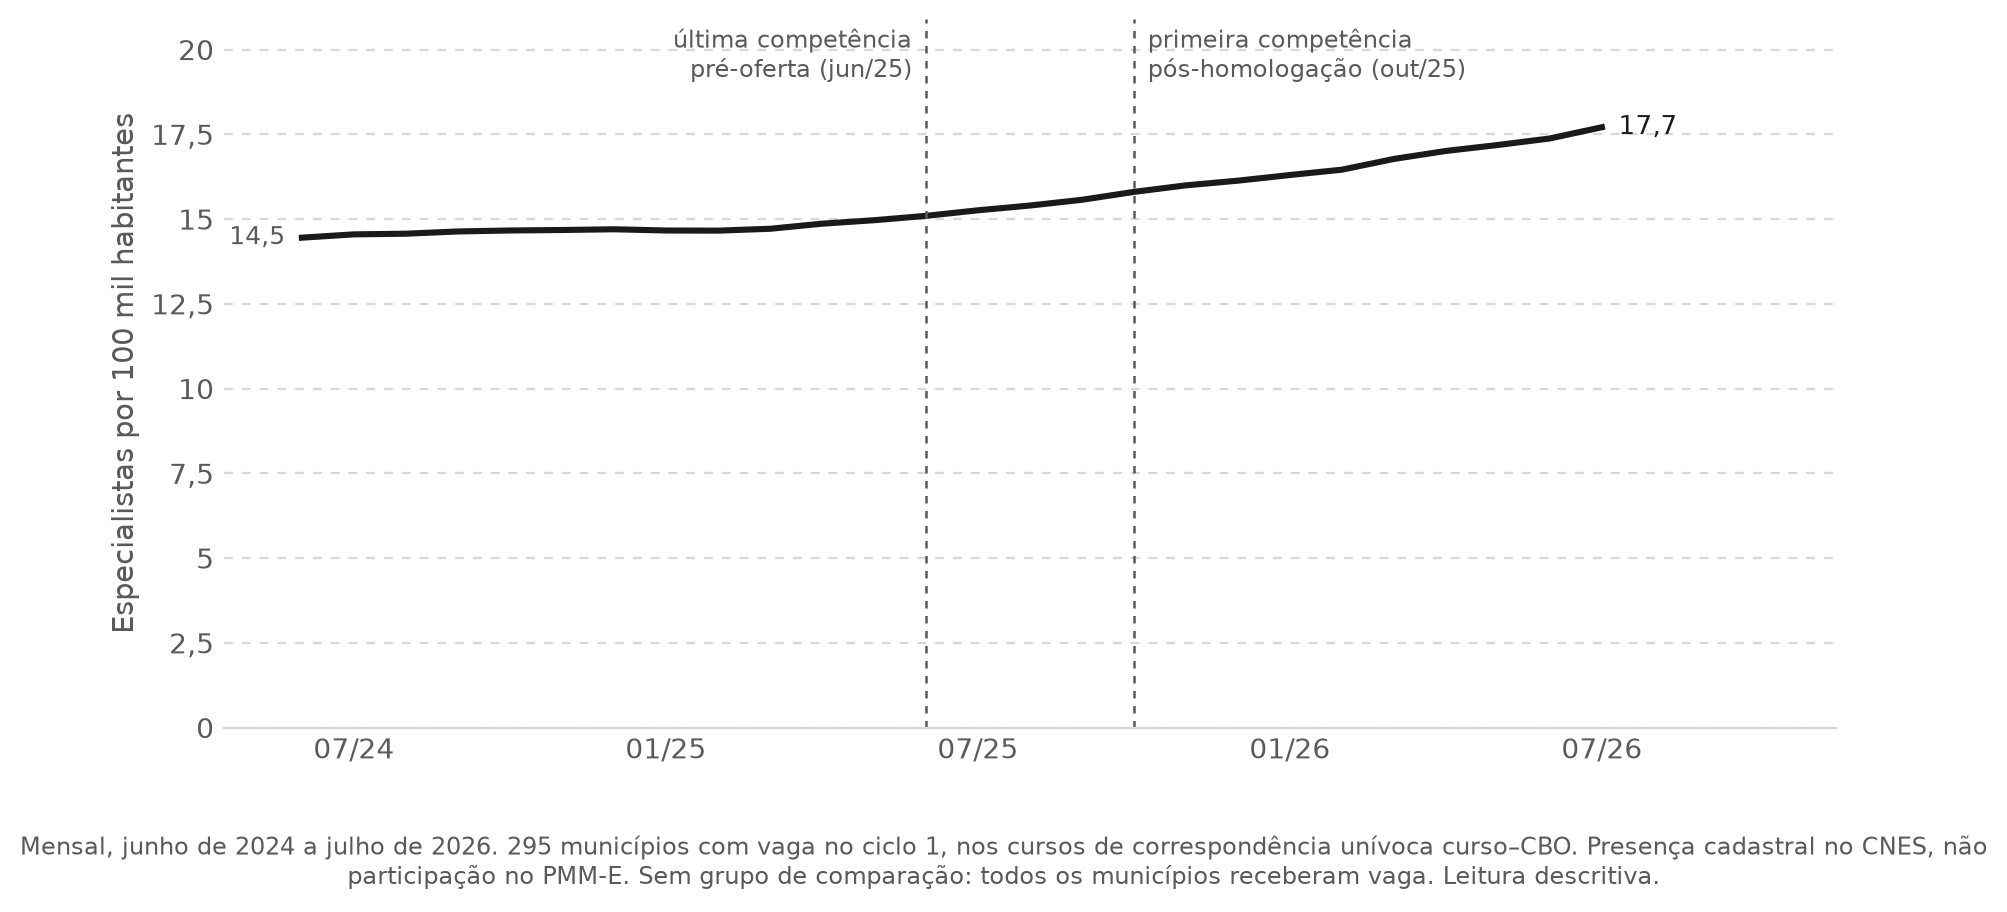
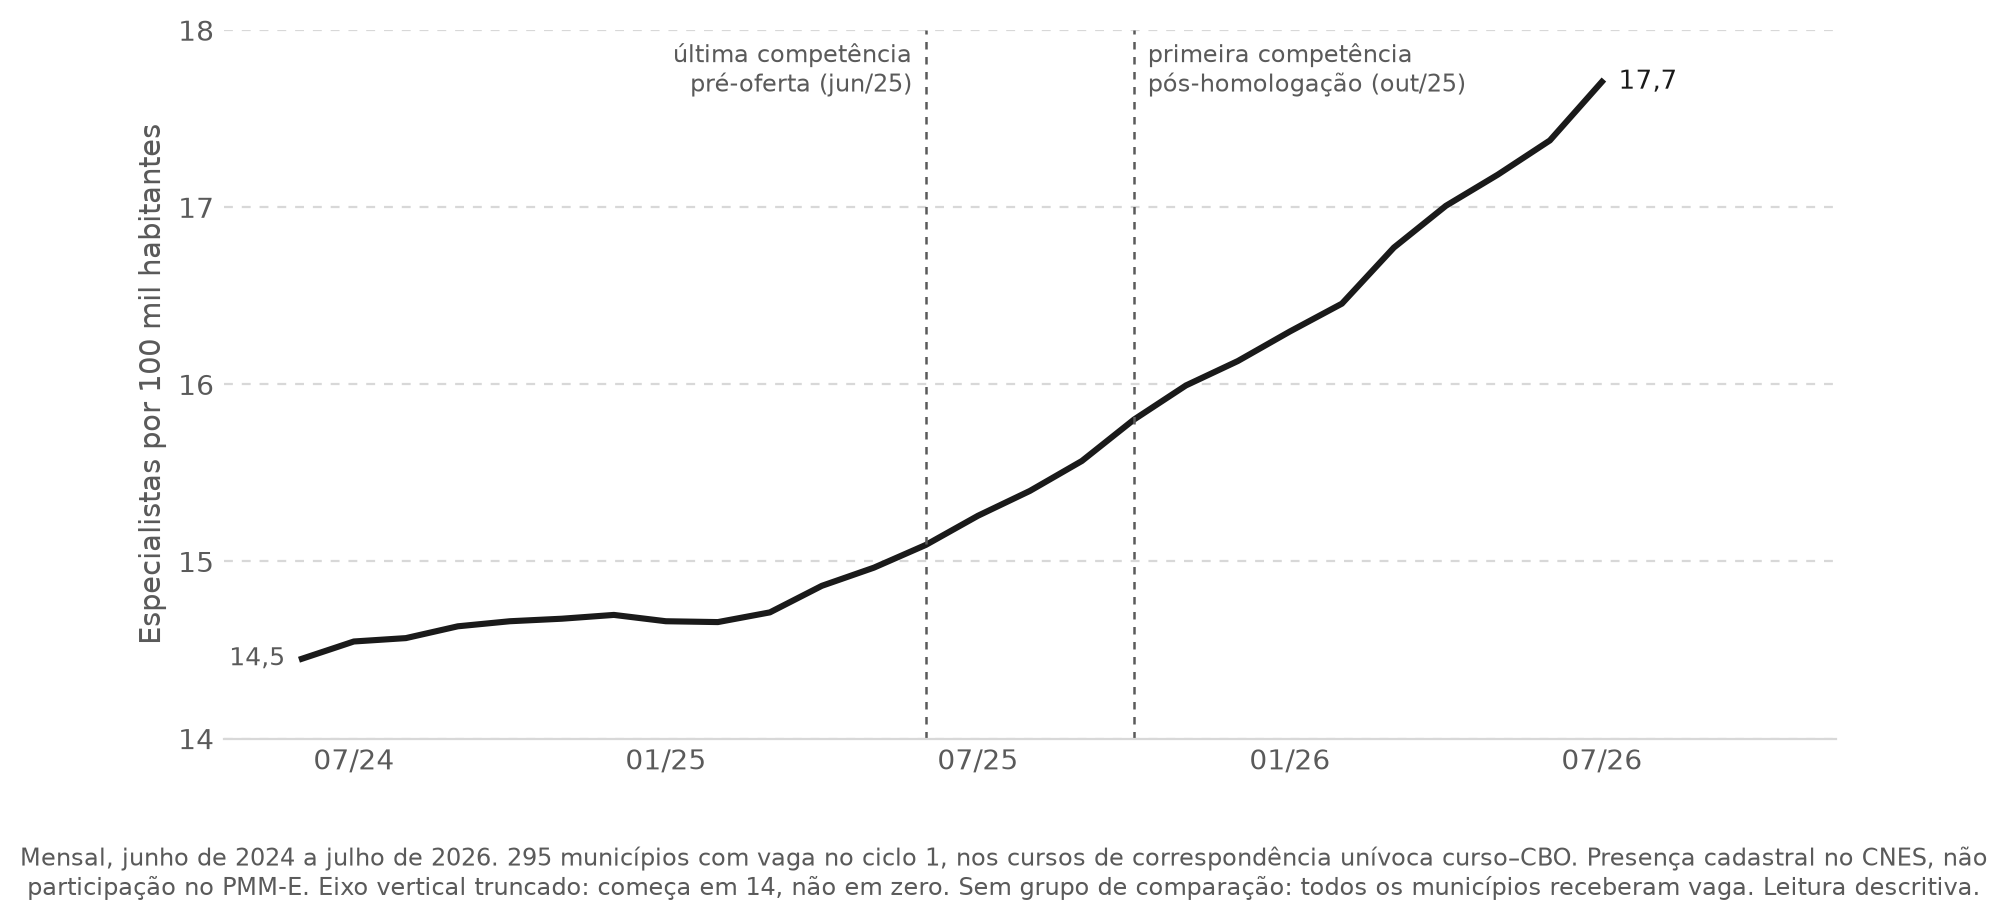
Banca 1: eixo truncado em 14-18 na série agregada de especialistas
A pedido do autor, `oferta_total_mensal.png` deixa de começar em zero e passa a
usar a banda fixa 14–18. A variação da série é pequena em relação ao nível, e o
eixo a partir de zero achatava a inflexão do início de 2025.

Truncar amplia a inclinação aparente, então o truncamento vai declarado no
rodapé da figura e registrado em `03_proveniencia_figuras_e_numeros.md`. A
ressalva substantiva não muda: sem grupo de comparação, e subindo desde antes da
oferta, a série continua descritiva e não se lê como efeito do programa.

A banda entra como `PISO_Y`/`TETO_Y` e `figura_oferta_total` aborta se a série
sair dela, para que uma competência nova não seja cortada em silêncio. Os dados
não mudam: o `manifesto_figuras.json` sai idêntico e as demais figuras saem
pixel a pixel iguais.

Claude-Session: https://claude.ai/code/session_01J5dbhx8fCW872HnDKjkgFB

diff --git a/scripts/apresentacao/gerar_figuras_banca1.py b/scripts/apresentacao/gerar_figuras_banca1.py
@@ -119,6 +119,13 @@ COR_BARRA = {"Faixa 3": VERDE_CLARO, "Faixa 2": VERDE_MEDIO, "Faixa 1": VERDE_ES
 ULTIMA_PRE = "202506"      # última competência anterior à publicação da oferta
 PRIMEIRA_POS = "202510"    # primeira competência integralmente pós-homologação
 
+# Banda fixa do eixo vertical de `oferta_total_mensal.png`. A série agregada varia
+# pouco em relação ao nível, e um eixo a partir de zero achata a variação. O
+# truncamento é declarado no rodapé da figura; a função aborta se a série sair da
+# banda, para que uma competência nova não seja cortada em silêncio.
+PISO_Y = 14.0
+TETO_Y = 18.0
+
 BOLSA_POR_FAIXA = [
     ("Faixa 3\nmédia, baixa\nou muito baixa", 10_000),
     ("Faixa 2\nalta", 15_000),
@@ -476,6 +483,13 @@ def figura_oferta_total(agregado: pd.DataFrame) -> Path:
 
     A série é a razão dos totais (soma de especialistas sobre soma da população,
     por competência), não a média das taxas das faixas.
+
+    O eixo vertical é truncado na banda `PISO_Y`–`TETO_Y` para tornar legível uma
+    variação pequena em relação ao nível. Truncar amplia a inclinação aparente, e
+    é por isso que o truncamento vai declarado no rodapé: a série não tem grupo de
+    comparação e não se lê como efeito do programa. A banda é fixa e a função
+    aborta se a série sair dela, para que uma competência nova nunca seja cortada
+    em silêncio.
     """
     municipios_por_comp = agregado.groupby("competencia")["municipios"].sum()
     if municipios_por_comp.nunique() != 1:
@@ -491,6 +505,12 @@ def figura_oferta_total(agregado: pd.DataFrame) -> Path:
     serie = total["por_100k"]
     x = list(range(len(serie.index)))
 
+    if serie.min() < PISO_Y or serie.max() > TETO_Y:
+        raise SystemExit(
+            f"série agregada ({serie.min():.2f}–{serie.max():.2f}) sai da banda "
+            f"fixa do eixo ({PISO_Y}–{TETO_Y}): reveja a banda antes de plotar, "
+            "a figura cortaria a série")
+
     fig, ax = plt.subplots(figsize=(10.4, 4.6), dpi=200)
     ax.plot(x, serie.values, color=TINTA, linewidth=2.2)
     ax.annotate(_fmt(serie.iloc[-1]), (x[-1], serie.iloc[-1]),
@@ -501,24 +521,25 @@ def figura_oferta_total(agregado: pd.DataFrame) -> Path:
                 fontsize=9, color=TINTA_SUAVE)
 
     idx = {c: i for i, c in enumerate(serie.index)}
-    topo = serie.max() * 1.18
     for comp, texto, lado in ((ULTIMA_PRE, "última competência\npré-oferta (jun/25)", "right"),
                               (PRIMEIRA_POS, "primeira competência\npós-homologação (out/25)", "left")):
         ax.axvline(idx[comp], color=TINTA_SUAVE, linewidth=0.9, linestyle=(0, (3, 3)))
         deslocamento = -5 if lado == "right" else 5
-        ax.annotate(texto, (idx[comp], topo * 0.99), textcoords="offset points",
+        ax.annotate(texto, (idx[comp], TETO_Y - 0.06), textcoords="offset points",
                     xytext=(deslocamento, 0), ha=lado, va="top", fontsize=8.5, color=TINTA_SUAVE)
 
     rotulos = [c[4:] + "/" + c[2:4] if c.endswith(("01", "07")) else "" for c in serie.index]
     ax.set_xticks(x)
     ax.set_xticklabels(rotulos, fontsize=9)
     ax.set_xlim(-1.5, len(x) + 3.5)
-    ax.set_ylim(0, topo)
+    ax.set_ylim(PISO_Y, TETO_Y)
+    ax.set_yticks([14, 15, 16, 17, 18])
     ax.set_ylabel("Especialistas por 100 mil habitantes", fontsize=10.5, color=TINTA_SUAVE)
     _limpar_moldura(ax)
     _rodape(fig, "Mensal, junho de 2024 a julho de 2026. 295 municípios com vaga no ciclo 1, nos cursos "
                  "de correspondência unívoca curso–CBO. Presença cadastral no CNES, não participação no "
-                 "PMM-E. Sem grupo de comparação: todos os municípios receberam vaga. Leitura descritiva.",
+                 "PMM-E. Eixo vertical truncado: começa em 14, não em zero. Sem grupo de comparação: "
+                 "todos os municípios receberam vaga. Leitura descritiva.",
             y=-0.06)
     destino = SAIDA / "oferta_total_mensal.png"
     fig.savefig(destino, bbox_inches="tight", facecolor="white")

diff --git a/docs/07_apresentacoes/banca1/03_proveniencia_figuras_e_numeros.md b/docs/07_apresentacoes/banca1/03_proveniencia_figuras_e_numeros.md
@@ -114,7 +114,7 @@ estrato, declarado como **associativo**.
 | `output/apresentacao_banca1/vagas_ciclo1_por_regiao.png` (`F5`) | células e vagas imediatas do ciclo 1 por região. Saiu do slide da Política no corte de 16/09/2026: descrevia sem argumentar. Os totais que ficaram em texto no slide 5 são **1.295 / 460 / 368**; o Nordeste (505 células, 39%) e as 18 capitais saíram da tela junto com a figura. O script continua gerando |
 | `docs/02_teoria/figuras/curva_custo_laboral_burnout.png` (`F4`) | ilustração conceitual do custo laboral em U. Saiu do deck em 16/09/2026 com a fusão dos dois slides de custo; o formato em U é descrito em texto no **slide 10**. Permanece como figura canônica de `modelo_micro.md`, §2.2. A ressalva de legibilidade em projeção deixa de afetar a apresentação |
 | `output/apresentacao_banca1/oferta_antes_depois_por_faixa.png` | série mensal de especialistas por 100 mil habitantes, 2024–2026. Saiu do deck na segunda rodada de revisão: sem grupo de comparação, não se lê como efeito do programa. O script continua gerando; a série está no `manifesto_figuras.json` e é a única parte reprodutível da tabela do deck do grupo — ver `P8` |
-| `output/apresentacao_banca1/oferta_total_mensal.png` | a mesma série mensal, agregada, sem quebra por faixa: uma única linha, razão dos totais nos 295 municípios. Gerada em 20/09/2026. Carrega a limitação da figura por faixa e de `P8`: **sem grupo de comparação**, a subida não se lê como efeito do programa — a série cresce desde junho de 2024, antes de qualquer oferta. Entra apenas como contexto descritivo; a série está no `manifesto_figuras.json` sob `serie_total_por_100k` |
+| `output/apresentacao_banca1/oferta_total_mensal.png` | a mesma série mensal, agregada, sem quebra por faixa: uma única linha, razão dos totais nos 295 municípios. Gerada em 20/09/2026. Carrega a limitação da figura por faixa e de `P8`: **sem grupo de comparação**, a subida não se lê como efeito do programa — a série cresce desde junho de 2024, antes de qualquer oferta. Entra apenas como contexto descritivo; a série está no `manifesto_figuras.json` sob `serie_total_por_100k`. **Eixo vertical truncado em 14–18 desde 20/09/2026**, a pedido do autor, para tornar legível uma variação pequena em relação ao nível: a inclinação aparente é maior que num eixo a partir de zero, e o truncamento vai declarado no rodapé da figura. A banda é fixa em `PISO_Y`/`TETO_Y` e o script aborta se a série sair dela, para que uma competência nova não seja cortada em silêncio. Truncar muda a leitura visual, não os dados: os valores do manifesto são os mesmos |
 | `docs/07_apresentacoes/banca1/figuras/motivacao_manchetes.png` | recortes de imprensa com cabeçalho do deck anterior. As manchetes entraram no slide do Problema como citação textual em 09/09/2026 e saíram no corte de 16/09/2026; a portaria de urgência continua citada em texto no slide 4, e a manchete dos 10% deixou a tela: depois da compressão de 16/09/2026 ela só aparece em **nota de produção**, como advertência a quem monta o deck |
 
 `docs/07_apresentacoes/banca1/figuras/especialistas_por_uf.png` e
